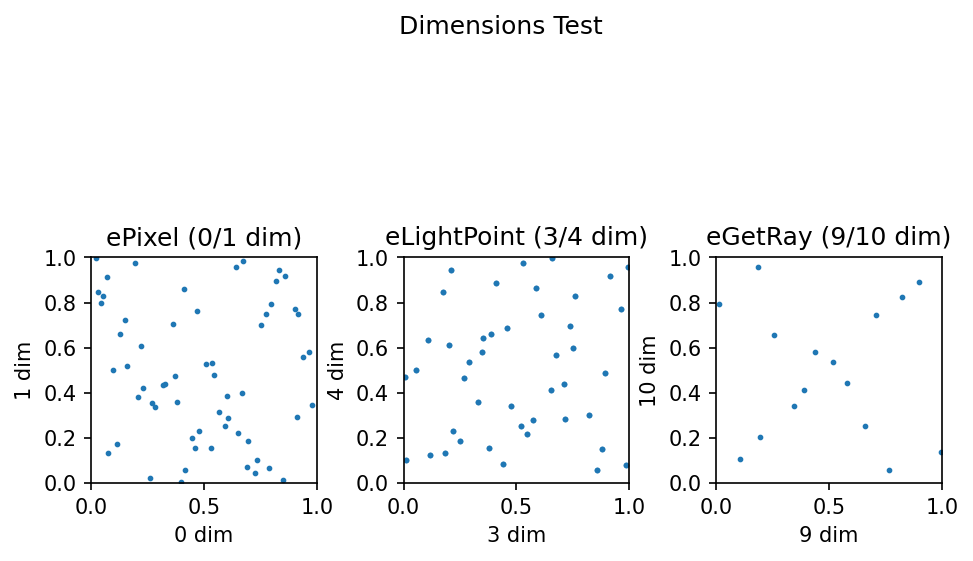
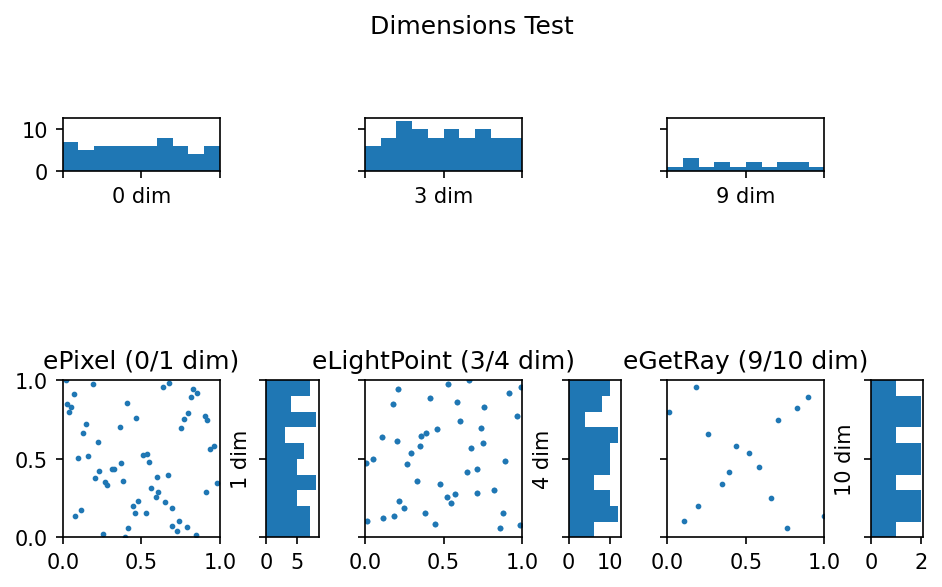
Upgrade Scatters builder

diff --git a/MakeScatterForPixel/main.py b/MakeScatterForPixel/main.py
@@ -1,18 +1,10 @@
 import matplotlib.pyplot as plt
 
-
-
-name = "Sobol"
-max_path = 256
-max_bounce = 8
-scrambling_type = "OwenV1"
-
-
-
-
-
-
-
+# parameters
+name = "Halton"
+max_path = 8
+max_bounce = 4
+scrambling_type = ""
 
 config_str = name + "_" + str(max_path) + "_" + str(max_bounce) + "_"
 
@@ -20,10 +12,30 @@ if scrambling_type != "":
     config_str = scrambling_type + "/" + config_str
 
 
-fig, axs = plt.subplots(1, 3, dpi=150)
+
+# plot settings
+fig, axs = plt.subplots(2, 6, dpi=150, sharex="col", sharey="row",
+                        gridspec_kw=dict(height_ratios=[1, 3],
+                                         width_ratios=[3, 1, 3, 1, 3, 1]))
 fig.suptitle("Dimensions Test")
 fig.tight_layout()
 
+axs[0, 1].set_visible(False)
+axs[0, 0].set_box_aspect(1 / 3)
+axs[1, 0].set_box_aspect(1)
+axs[1, 1].set_box_aspect(3 / 1)
+axs[0, 3].set_visible(False)
+axs[0, 2].set_box_aspect(1 / 3)
+axs[1, 2].set_box_aspect(1)
+axs[1, 3].set_box_aspect(3 / 1)
+axs[0, 5].set_visible(False)
+axs[0, 4].set_box_aspect(1 / 3)
+axs[1, 4].set_box_aspect(1)
+axs[1, 5].set_box_aspect(3 / 1)
+
+
+
+# ePixel scatter + histograms
 coords_x = []
 coords_y = []
 data_x = open("/Users/kaparya/HSE/PathTracing/WorkingProject/DimensionsTest/" + config_str + "ePixelX_0.txt", "r")
@@ -36,14 +48,20 @@ for line in data_y:
     help = line.split()
     coords_y.append(float(help[0]))
 
-axs[0].scatter(coords_x, coords_y, s=3)
-axs[0].set_title("ePixel (0/1 dim)")
-axs[0].set_xlim(0, 1)
-axs[0].set_xlabel("0 dim")
-axs[0].set_ylim(0, 1)
-axs[0].set_ylabel("1 dim")
-axs[0].set_box_aspect(1)
+axs[1, 0].scatter(coords_x, coords_y, s=3)
+axs[1, 0].set_title("ePixel (0/1 dim)")
+axs[1, 0].set_xlim(0, 1)
+axs[1, 0].set_ylim(0, 1)
+axs[1, 0].set_box_aspect(1)
 
+axs[0, 0].hist(coords_x, bins=10, range=(0, 1))
+axs[0, 0].set_xlabel("0 dim")
+axs[1, 1].hist(coords_y, orientation="horizontal", bins=10, range=(0, 1))
+axs[1, 1].set_ylabel("1 dim")
+
+
+
+# eLightPoint scatter + histograms
 coords_x.clear()
 coords_y.clear()
 data_x = open("/Users/kaparya/HSE/PathTracing/WorkingProject/DimensionsTest/" + config_str + "eLightPointX_3.txt", "r")
@@ -56,14 +74,20 @@ for line in data_y:
     help = line.split()
     coords_y.append(float(help[0]))
 
-axs[1].scatter(coords_x, coords_y, s=3)
-axs[1].set_title("eLightPoint (3/4 dim)")
-axs[1].set_xlim(0, 1)
-axs[1].set_xlabel("3 dim")
-axs[1].set_ylim(0, 1)
-axs[1].set_ylabel("4 dim")
-axs[1].set_box_aspect(1)
+axs[1, 2].scatter(coords_x, coords_y, s=3)
+axs[1, 2].set_title("eLightPoint (3/4 dim)")
+axs[1, 2].set_xlim(0, 1)
+axs[1, 2].set_ylim(0, 1)
+axs[1, 2].set_box_aspect(1)
 
+axs[0, 2].hist(coords_x, bins=10, range=(0, 1))
+axs[0, 2].set_xlabel("3 dim")
+axs[1, 3].hist(coords_y, orientation="horizontal", bins=10, range=(0, 1))
+axs[1, 3].set_ylabel("4 dim")
+
+
+
+# eGetRay scatter + histograms
 coords_x.clear()
 coords_y.clear()
 data_x = open("/Users/kaparya/HSE/PathTracing/WorkingProject/DimensionsTest/" + config_str + "eGetRayX_9.txt", "r")
@@ -76,13 +100,16 @@ for line in data_y:
     help = line.split()
     coords_y.append(float(help[0]))
 
-axs[2].scatter(coords_x, coords_y, s=3)
-axs[2].set_title("eGetRay (9/10 dim)")
-axs[2].set_xlim(0, 1)
-axs[2].set_xlabel("9 dim")
-axs[2].set_ylim(0, 1)
-axs[2].set_ylabel("10 dim")
-axs[2].set_box_aspect(1)
+axs[1, 4].scatter(coords_x, coords_y, s=3)
+axs[1, 4].set_title("eGetRay (9/10 dim)")
+axs[1, 4].set_xlim(0, 1)
+axs[1, 4].set_ylim(0, 1)
+axs[1, 4].set_box_aspect(1)
+
+axs[0, 4].hist(coords_x, bins=10, range=(0, 1))
+axs[0, 4].set_xlabel("9 dim")
+axs[1, 5].hist(coords_y, orientation="horizontal", bins=10, range=(0, 1))
+axs[1, 5].set_ylabel("10 dim")
 
 config_str = name + "/" + str(max_path) + "_" + str(max_bounce) + ".png"
 
